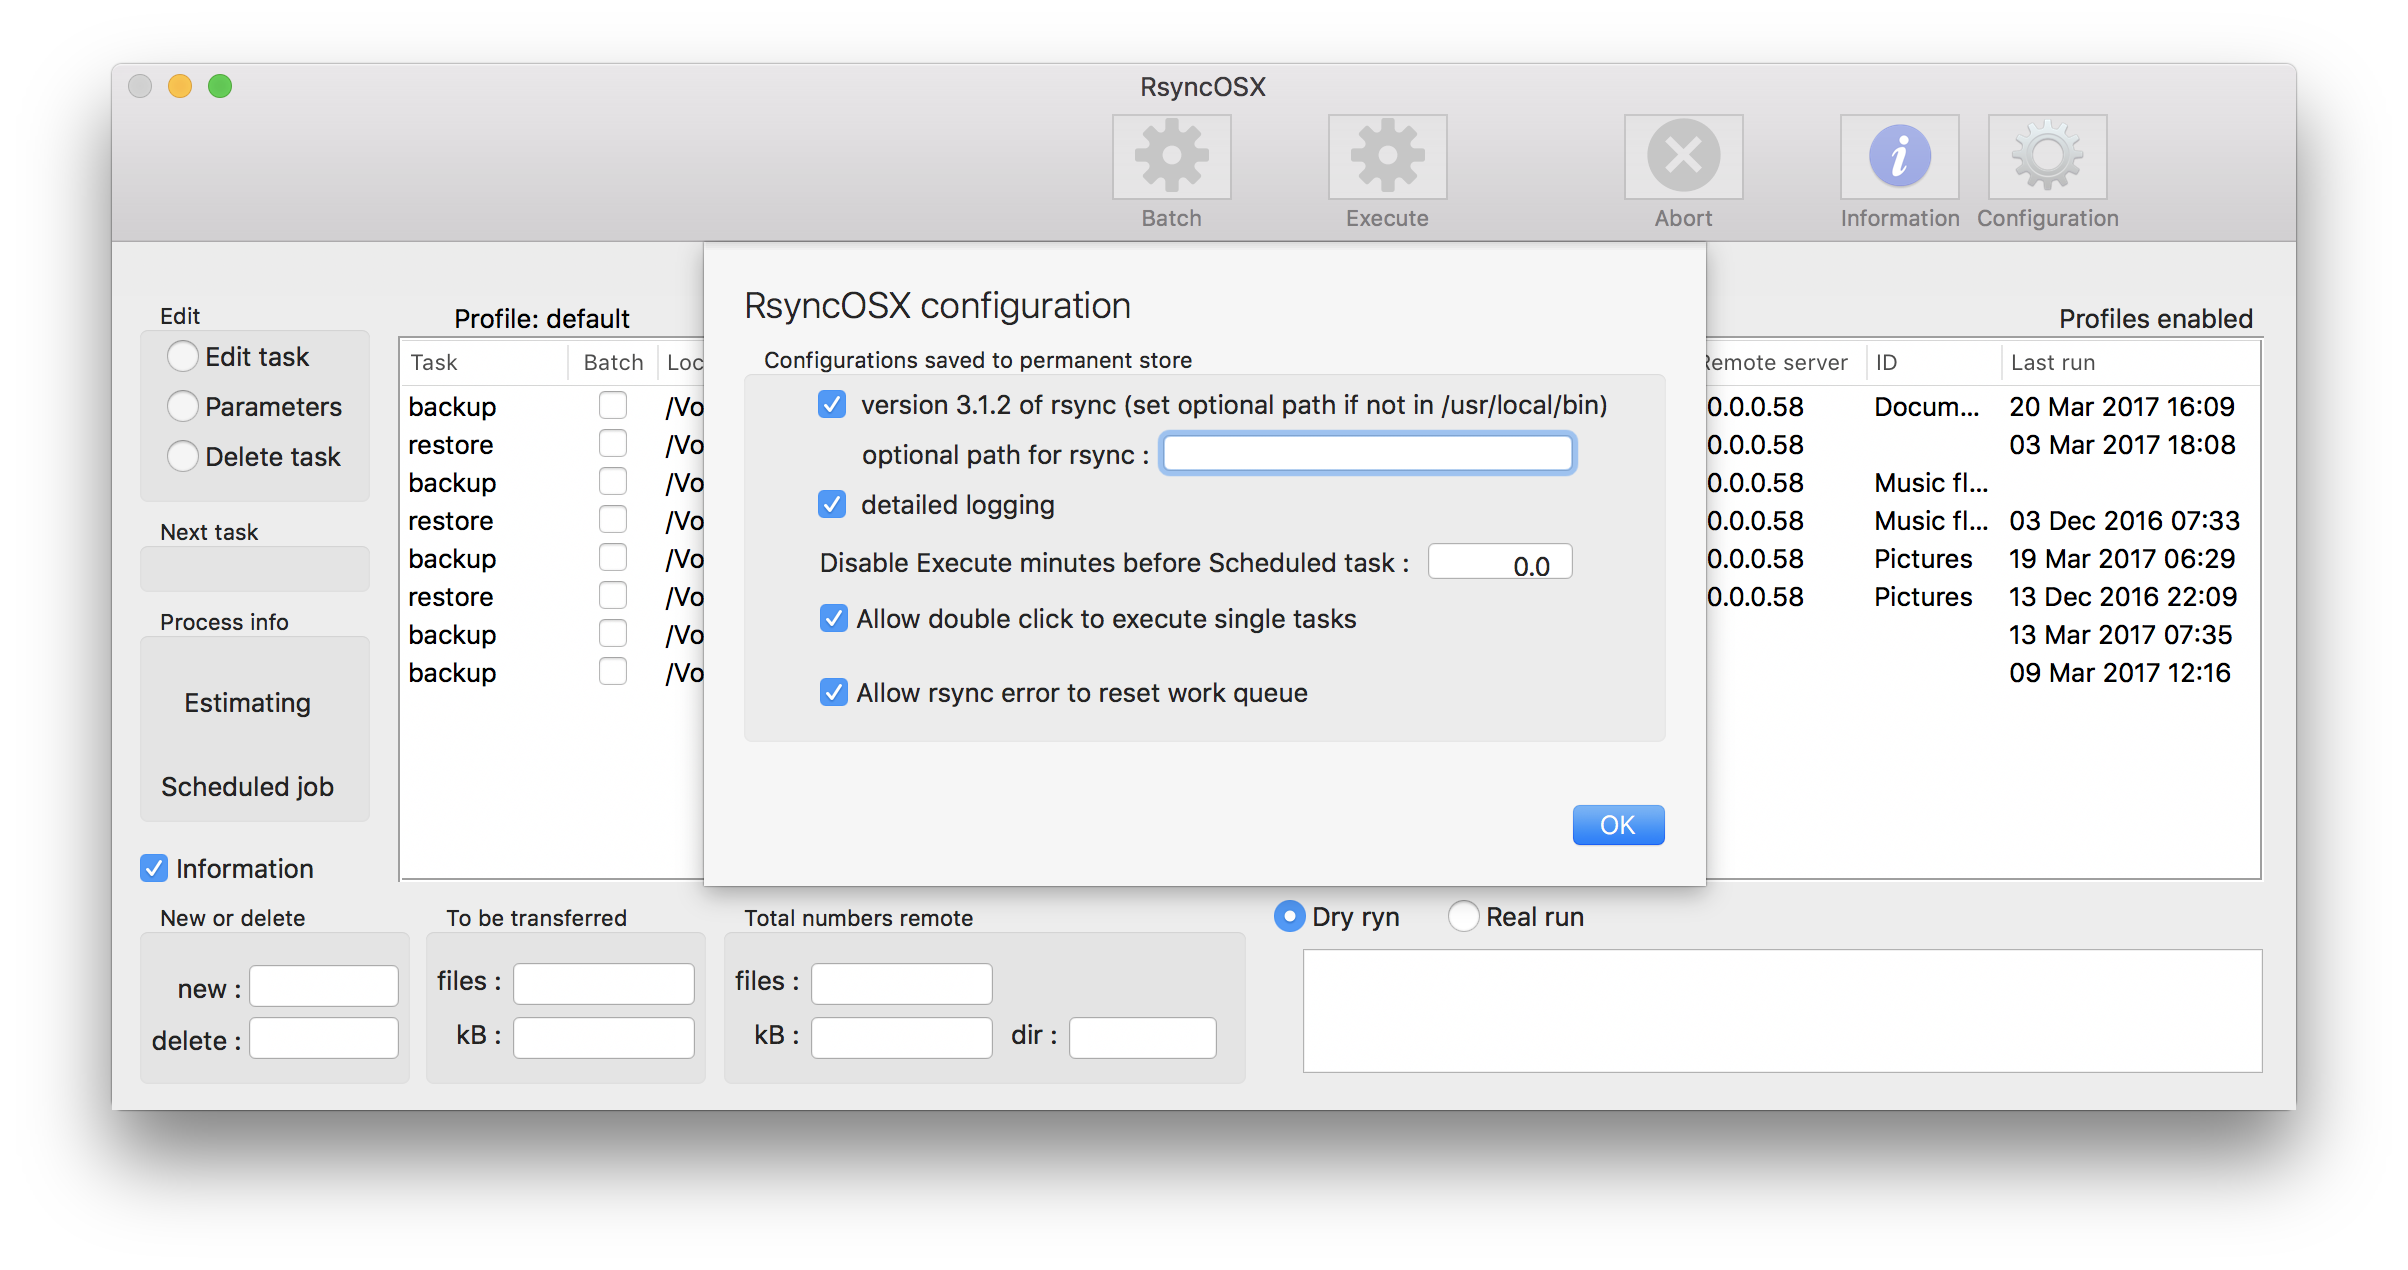
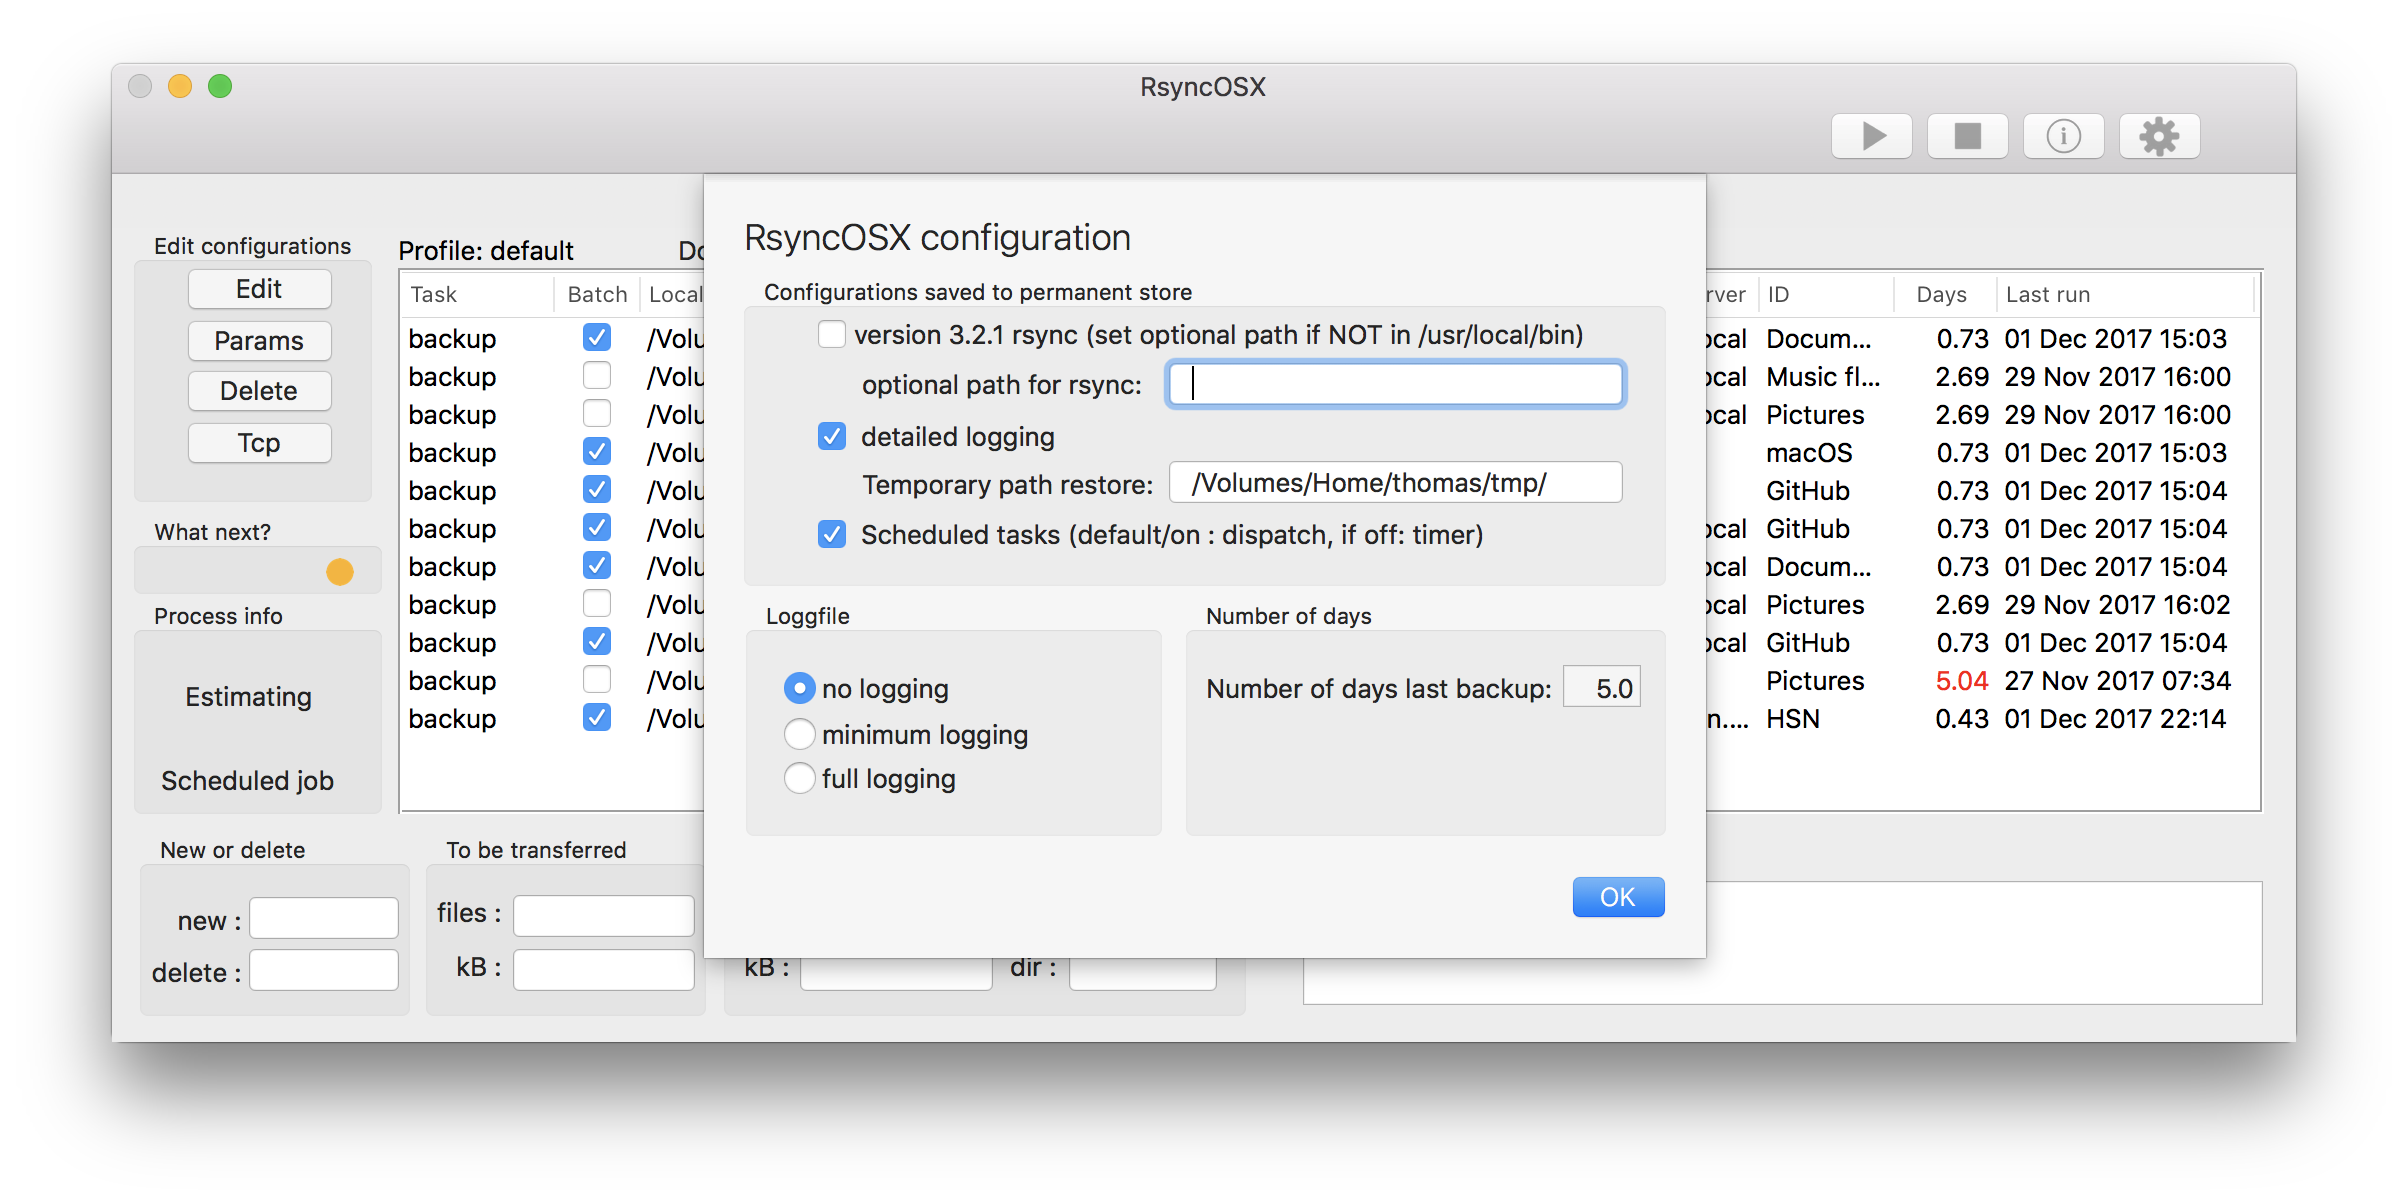
updates

diff --git a/docs/UserConfiguration.md b/docs/UserConfiguration.md
@@ -8,24 +8,23 @@ There are only a few parameters to choose in user configuration. The parameters 
  	- any version of rsync should work, but only _rsync  version 3.1.2  protocol version 31_ and _rsync  version 2.6.9  protocol version 29_ is tested and verified.
  - detailed logging on or off
  	- if detailed logging is **on** all _backup_ tasks are logged, if **off** only last date for task is updated in Execute view
- - allow double click to execute single tasks
- 	- if **on** any single task might be executed by double click on a row
-  - from version 4.5.1 only way to execute single tasks is double click on row
-- allow rsync error to reset work queue
-	- RsyncOSX checks output from rsync for string `rsync error:`. If found main view is notified, error is marked (in red) and work queue is reset if option in user config is set. To test enter a not valid user name for a remote server ([edit task](SingleTask.md) in main view)
 - temporary path restore
   - preset path for [restoring single files or volumes](CopySingleFiles.md)
+- Scheduled tasks (default on: dispatch, if off: timer)
+  - don´t bother to switch, it is only how (technical) scheduled tasks are kicked off
+- loggfile
+  - either minimum (last 10 lines) or full logging of output from rsync, be carful not logging everything, the log file might be big
+  - loggfile is `Documents/rsynclog.txt`
+  - logging to file is *off* when RsyncOSX starts
+- Number of days
+  - in main view tasks older than number of days are marked red
 
 If the user selects another version of rsync, RsyncOSX does check if there is a rsync in path set by user. If there is no rsync in path RsyncOSX will not execute any tasks. The red _configurations_ (rows in table) is only because I have not started my VirtualBox FreeBSD instance and RsyncOSX does not receive any answer (check is done automatically)
-
-![](screenshots/4.3.5/config.png)
+![](screenshots/master/userconfig/user.png)
 
 ### No rsync i path
 
 The views below is what happens if a not valid rsync path is set. An error is presented in bottom of user configuration.
-
 ![](screenshots/master/userconfig/user2.png)
-
 If there still is a missing rsync in optional path no execution of tasks is allowed (it gives no meaning of executing a task without a rsync).
-
 ![](screenshots/master/userconfig/user3.png)
